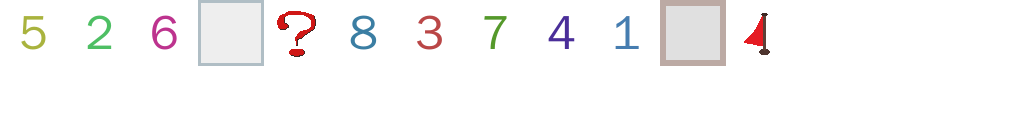
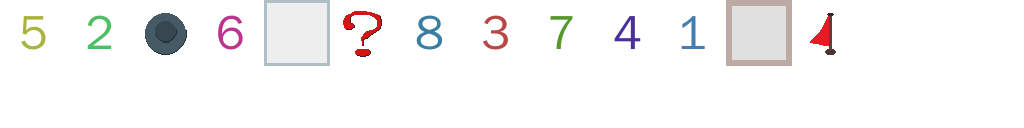
Added mine sprite

diff --git a/core/src/main/kotlin/game/minesweeper/screens/PlayScreen.kt b/core/src/main/kotlin/game/minesweeper/screens/PlayScreen.kt
@@ -49,10 +49,11 @@ class PlayScreen(val batch: SpriteBatch): Screen, InputProcessor {
 
     private val assetManager = AssetManager()
 
-    private var mapWidth = 10    // should not exceed 26
-    private var mapHeight = 10    // should not exceed 16
-    private var mapSize = mapWidth * mapHeight
-    private var totalMineNumber: Int = mapSize / 10
+    var mapWidth = 10    // should be between 1 and 26
+    var mapHeight = 10    // should be between 1 and 16
+    var mapSize = 0
+        get() = mapWidth * mapHeight
+    var totalMineNumber: Int = mapSize / 10 // should be between 1 and mapSize
 
     private lateinit var mineMap: Array<Mine>
     private lateinit var mineMapStatus: Array<Status>
@@ -60,6 +61,7 @@ class PlayScreen(val batch: SpriteBatch): Screen, InputProcessor {
     private lateinit var spriteBlock: Sprite
     private lateinit var spriteClearBlock: Sprite
     private lateinit var spriteQuestion: Sprite
+    private lateinit var spriteMine: Sprite
 
     private lateinit var spriteNum1: Sprite
     private lateinit var spriteNum2: Sprite
@@ -92,6 +94,9 @@ class PlayScreen(val batch: SpriteBatch): Screen, InputProcessor {
 
         spriteQuestion = Sprite(textureAtlas.findRegion("Question"))
         spriteQuestion.setBounds(0f, 0f, BLOCK_SIZE, BLOCK_SIZE)
+
+        spriteMine = Sprite(textureAtlas.findRegion("Mine"))
+        spriteMine.setBounds(0f, 0f, BLOCK_SIZE, BLOCK_SIZE)
 
         spriteNum1 = Sprite(textureAtlas.findRegion("Num1"))
         spriteNum2 = Sprite(textureAtlas.findRegion("Num2"))
@@ -296,8 +301,8 @@ class PlayScreen(val batch: SpriteBatch): Screen, InputProcessor {
                     }
 
                     Mine.MINE -> {
-                        spriteFlag.setPosition(x, y)
-                        spriteFlag.draw(batch)
+                        spriteMine.setPosition(x, y)
+                        spriteMine.draw(batch)
                     }
 
                     else -> {
@@ -350,26 +355,28 @@ class PlayScreen(val batch: SpriteBatch): Screen, InputProcessor {
         val vec3 = Vector3(screenX.toFloat(), screenY.toFloat(), 0f)
         camera.unproject(vec3)
         val (coordX, coordY) = translateWorldCoordToMapCoord(vec3.x, vec3.y)
+        val index = coordY * mapWidth + coordX
 
         when (button) {
             Input.Buttons.LEFT -> {
 
                 // clicked on mine map
                 if (coordX >=0 && coordY >= 0) {
-                    when (mineMapStatus[coordY * mapWidth + coordX]) {
+                    when (mineMapStatus[index]) {
                         Status.UNSOLVED -> {
-                            val mine = mineMap[coordY * mapWidth + coordX]
+                            val mine = mineMap[index]
 
                             if (mine == Mine.MINE) {
                                 // explode...
                                 println("explode!!!")
+                                mineMapStatus[index] = Status.CLEARED
                             }
                             else {
                                 if (mine == Mine.EMPTY) {
                                     checkSurroundingBlocks(coordX, coordY)
                                 }
                                 else {
-                                    mineMapStatus[coordY * mapWidth + coordX] = Status.CLEARED
+                                    mineMapStatus[index] = Status.CLEARED
                                 }
                             }
                         }
@@ -382,7 +389,7 @@ class PlayScreen(val batch: SpriteBatch): Screen, InputProcessor {
 
                 // clicked on mine map
                 if (coordX >=0 && coordY >= 0) {
-                    val index = coordY * mapWidth + coordX
+
                     when (mineMapStatus[index]) {
                         Status.UNSOLVED -> {
                             mineMapStatus[index] = Status.TAGGED_FLAG

diff --git a/core/src/main/kotlin/game/minesweeper/ui/Gui.kt b/core/src/main/kotlin/game/minesweeper/ui/Gui.kt
@@ -4,6 +4,7 @@ import com.badlogic.gdx.scenes.scene2d.InputEvent
 import com.badlogic.gdx.scenes.scene2d.Stage
 import com.badlogic.gdx.scenes.scene2d.utils.ClickListener
 import com.badlogic.gdx.utils.Disposable
+import com.kotcrab.vis.ui.widget.VisTable
 import com.kotcrab.vis.ui.widget.VisTextButton
 import game.minesweeper.screens.PlayScreen
 
@@ -11,19 +12,31 @@ class Gui(val playScreen: PlayScreen): Disposable {
 
     val stage: Stage
     val restartButton: VisTextButton
+    val settingsButton: VisTextButton
 
     init {
         restartButton = VisTextButton("Restart")
-        restartButton.setPosition(6f, 480f - 32f)
         restartButton.addListener(object: ClickListener() {
-            override fun clicked(event: InputEvent?, x: Float, y: Float) {
+            override fun clicked(event: InputEvent, x: Float, y: Float) {
                 playScreen.restart()
             }
         })
 
+        settingsButton = VisTextButton("Settings")
+        settingsButton.addListener(object: ClickListener() {
+            override fun clicked(event: InputEvent, x: Float, y: Float) {
+                println("settings clicked")
+            }
+        })
+
+        val table = VisTable()
+        table.setFillParent(true)
+        table.top().left().pad(6f)
+        table.add(restartButton).padRight(6f)
+        table.add(settingsButton)
 
         stage = Stage()
-        stage.addActor(restartButton)
+        stage.addActor(table)
     }
 
     fun update(delta: Float) {
